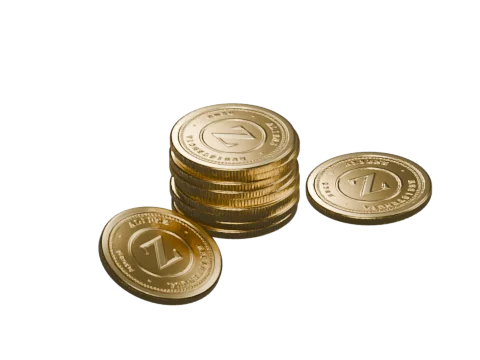
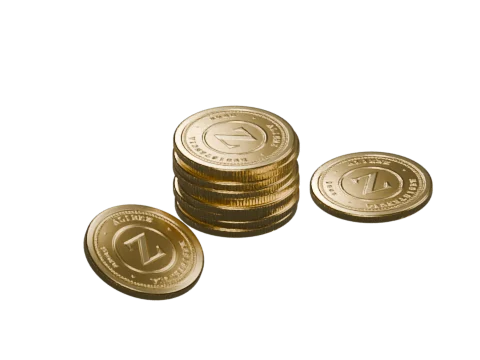
Botín: monedas que no se atraviesan y, al perder, solo lo mínimo
Las fotos de las monedas se recolocan con distancia entre ellas y las
inclinadas apoyadas en el suelo. Perdiendo solo pueden tocar 20 monedas
o 2 billetes; lo bueno y las cajas salen ganando.

Changed region(s): [[0.1562, 0.275, 0.9062, 0.8556]]

diff --git a/src/cofre.js b/src/cofre.js
@@ -55,7 +55,7 @@ const PROB_MILITAR = 0.01
 const PROB_ALIEN = 0.002
 const SEGURO = 150
 
-// El botín de siempre. Pesos al PERDER; ganando se multiplica lo que no es común.
+// El botín de siempre. Ganando con estrellas se multiplica lo que no es común.
 export const PREMIOS = [
   { tipo: 'monedas', cantidad: 20, rareza: 'comun', peso: 30 },
   { tipo: 'monedas', cantidad: 45, rareza: 'comun', peso: 22 },
@@ -66,6 +66,8 @@ export const PREMIOS = [
   { tipo: 'billetes', cantidad: 30, rareza: 'epico', peso: 1.6 },
   { tipo: 'billetes', cantidad: 120, rareza: 'legendario', peso: 0.4 }
 ]
+// Lo mínimo de cada cosa: lo único que puede tocar al perder.
+const PERDIENDO = [PREMIOS[0], PREMIOS[2]]
 const CAJA_MILITAR = { tipo: 'caja', caja: 'militar', rareza: 'unico' }
 const CAJA_ALIEN = { tipo: 'caja', caja: 'alien', rareza: 'unico' }
 
@@ -93,8 +95,11 @@ export function tirarCofre ({ gano = false, estrellas = 0 } = {}) {
     if (seguro || Math.random() < PROB_MILITAR) { sumarCaja('militar'); return CAJA_MILITAR }
     victoriaSinCaja()
   }
+  // Perdiendo, lo más bajo que hay (Isidro, 30/09: «cuando pierda quiero que
+  // los premios sean los más bajos posibles»): 20 monedas o 2 billetes.
+  const lista = gano ? PREMIOS : PERDIENDO
   const f = gano ? 1 + estrellas * 0.6 : 1
-  const premio = sortear(PREMIOS, PREMIOS.map(p => (p.rareza === 'comun' ? p.peso : p.peso * f)))
+  const premio = sortear(lista, lista.map(p => (p.rareza === 'comun' ? p.peso : p.peso * f)))
   if (premio.tipo === 'billetes') sumarBilletes(premio.cantidad)
   else sumarMonedas(premio.cantidad)
   return premio
@@ -282,7 +287,7 @@ export function abrirBotin ({ gano, estrellas, audio, retratos }) {
     relleno: rellenoBotin,
     titulo: 'Botín de la partida',
     caja: 'cofre de campaña',
-    nota: gano ? 'Ganando salen cosas mejores. Muy de vez en cuando, una caja.' : 'Perdiendo también hay botín. Las cajas solo salen ganando.',
+    nota: gano ? 'Ganando salen cosas mejores. Muy de vez en cuando, una caja.' : 'Perdiendo solo toca lo mínimo. Lo bueno y las cajas salen ganando.',
     fondo: 'militar',
     audio,
     retratos,

diff --git a/herramientas/blender/premios.py b/herramientas/blender/premios.py
@@ -280,23 +280,53 @@ for piso in range(3):
                  random.uniform(-3, 3))
             k += 1
 
+# Las monedas NO se pueden atravesar (Isidro, 30/09: «se traspasan entre sí»):
+# cada una se coloca a un diámetro de las demás, las que van de canto se apoyan
+# (la altura sale del ángulo) y las pilas no se tocan entre ellas.
+R = 0.24
+sitios = []
+def libre (x, y, r=R):
+    return all(math.hypot(x - a, y - b) >= r + rb + 0.01 for a, b, rb in sitios)
+def apunta (x, y, r=R):
+    sitios.append((x, y, r))
+def apoyada (col, x, y, angulo, giro):
+    # Una moneda inclinada con el canto en el suelo: su centro sube lo que baja el borde.
+    a = math.radians(angulo)
+    moneda(col, (x, y, R * math.sin(a) + 0.0175 * math.cos(a)), (a, 0, giro))
+
 c = coleccion('monedas-1'); premios[c.name] = c           # 20 monedas: tres
-moneda(c, (-0.2, 0, 0.018))
-moneda(c, (0.22, 0.12, 0.018), (0, 0, 1))
-moneda(c, (0.02, -0.02, 0.1), (math.radians(62), 0, math.radians(20)))
+sitios = []
+moneda(c, (-0.27, 0, 0.018)); apunta(-0.27, 0)
+moneda(c, (-0.24, 0.03, 0.054), (0, 0, 0.7))              # encima de la primera
+moneda(c, (0.26, 0.08, 0.018), (0, 0, 1)); apunta(0.26, 0.08)
+apoyada(c, 0.05, -0.42, 18, 0.4)
 
 c = coleccion('monedas-2'); premios[c.name] = c           # 45: una pila y sueltas
-pila(c, 0, 0.05, 9)
-moneda(c, (0.5, -0.1, 0.018))
-moneda(c, (-0.45, -0.2, 0.05), (math.radians(20), 0, 0.3))
+sitios = []
+pila(c, 0, 0.05, 9); apunta(0, 0.05)
+moneda(c, (0.52, -0.1, 0.018)); apunta(0.52, -0.1)
+apoyada(c, -0.55, -0.22, 20, 0.3)
 
 c = coleccion('monedas-3'); premios[c.name] = c           # 90: el montón
-for (x, y, n) in ((-0.5, 0.2, 8), (0, 0.3, 12), (0.5, 0.1, 6), (-0.2, -0.25, 5), (0.35, -0.3, 9)):
-    pila(c, x, y, n)
-for i in range(9):
+sitios = []
+for (x, y, n) in ((-0.55, 0.22, 8), (0, 0.32, 12), (0.55, 0.12, 6), (-0.26, -0.3, 5), (0.3, -0.36, 9)):
+    pila(c, x, y, n); apunta(x, y)
+# Con tope de intentos: buscando hueco al azar sin tope, cuando el anillo se
+# llena el bucle no acaba nunca (así se colgó el render una vez).
+puestas = 0
+intentos = 0
+while puestas < 7 and intentos < 500:
+    intentos += 1
     t = random.uniform(0, 6.3)
-    moneda(c, (math.cos(t) * random.uniform(0.7, 1.0), math.sin(t) * random.uniform(0.5, 0.7), 0.03),
-           (random.uniform(0, 0.4), random.uniform(0, 0.4), random.uniform(0, 6.3)))
+    x, y = math.cos(t) * random.uniform(0.85, 1.3), math.sin(t) * random.uniform(0.7, 1.0)
+    if not libre(x, y):
+        continue
+    apunta(x, y)
+    if puestas % 3 == 2:
+        apoyada(c, x, y, random.uniform(12, 22), random.uniform(0, 6.3))
+    else:
+        moneda(c, (x, y, 0.018), (0, 0, random.uniform(0, 6.3)))
+    puestas += 1
 
 # La caja militar: la de Poly Haven con el emblema pintado en el frente.
 def pintura_emblema (color, brillo=0.0):
